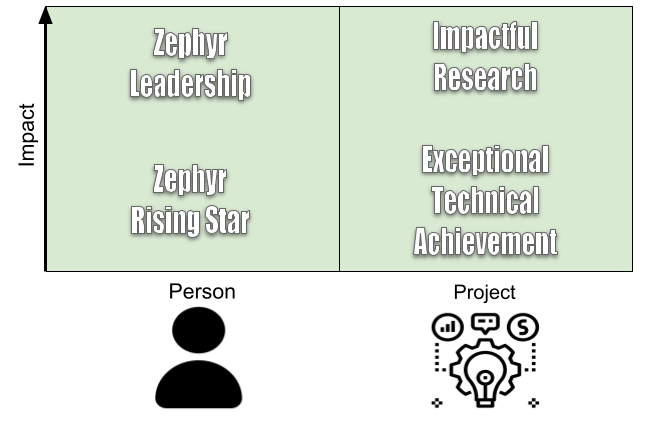
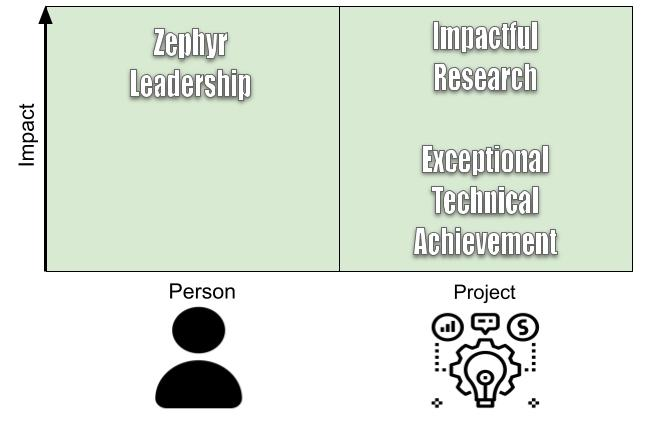
Update awards page to remove Rising Star award option for 2024

Changed region(s): [[0.1855, 0.3578, 0.4019, 0.5665], [0.6801, 0.4174, 0.8346, 0.5069]]

diff --git a/awards.md b/awards.md
@@ -4,21 +4,18 @@ category: Activities
 title: Zephyr Awards
 ---
 
-**Congratulations the 2023 Zephyr Award Winners!**
+**Announcing the 2024 Zephyr Awards Call for Nominations!**
 
-To clarify some past confusion regarding the different Zephyr Awards, in 2023, the Zephyr Award Committee has restructured and redefined
-the Award definitions and descriptions.
-
-There will be two categories of awards, Person and Project. Within each category, there are two options depending on level of impact.
+Starting this year, there will be three award categories, with the Rising Star Award being dropped.
 
 <p style="text-align:center; font-size:9px">
-<img src="/img/zephyr-awards-diagram.png" alt="A rectangle in which the horizonal axis split into two parts labelled Person and Project. The vertical axis is labeled Impact. Four types of awards are depicted in the rectangle as text: The lower impact Person award is Zephyr Rising Star. The higher impact Person award is Zephyr Leadership. The lower impact Project award is Exceptional Technical Achievement. The higher impact Project award is Impactful Research.">
+<img src="/img/zephyr-awards-diagram.png" alt="A rectangle in which the horizonal axis split into two parts labelled Person and Project. The vertical axis is labeled Impact. Three types of awards are depicted in the rectangle as text: The Person award is Zephyr Leadership. The lower impact Project award is Exceptional Technical Achievement. The higher impact Project award is Impactful Research.">
 <br />
 Person graphic by Mello from NounProject.com<br />
 Project graphic by Nithinan Tatah from NounProject.com
 </p>
 
-More information about the four awards can be found on the [2023 Zephyr Awards nomination form](https://forms.gle/SiBMUwWLeSPYvmxWA).
+More information about the three awards can be found on the [2024 Zephyr Awards nomination form](https://forms.gle/SiBMUwWLeSPYvmxWA).
 
 <hr />
 
@@ -27,12 +24,6 @@ More information about the four awards can be found on the [2023 Zephyr Awards n
 The Zephyr Leadership Award is given to an individual with demonstrated history of experience in the field who embodies the Zephyr Principles, and who embraces the Zephyr mission of advancing rigorous transportation and land use decision-making for the public good by advocating for and supporting improved travel analysis and facilitating its implementation.
 
 **[Congratuations to the 2023 recipient, Dr. Greg Erhardt!](/leadership-award)**
-
-## [Zephyr Rising Star Award](/rising-star-award)
-
-The Zephyr Rising Star Award is given to an individual early in their career who embodies the Zephyr Principles, and embraces the Zephyr mission of advancing rigorous transportation and land use decision-making for the public good by advocating for and supporting improved travel analysis. 
-
-**[Congratuations to the 2023 recipient, Dr. Tierra Bills!](/rising-star-award)**
 
 ## [Impactful Research Award](/impactful-research-award)
 
@@ -45,3 +36,10 @@ The Impactful Research Award is given in recognition of a project that has a pro
 The Exceptional Technical Achievement Award is given in recognition of a project that has a potential for a positive impact on the transportation and/or land use decision-making field.
 
 **[Congratuations to the 2023 recipient, Travel Model Improvement Program Exploratory Modeling and Analysis Tool (TMIP-EMAT)!](/technical-achievement-award)**
+
+
+## [Zephyr Rising Star Award - Discontinued as of 2024](/rising-star-award)
+
+The Zephyr Rising Star Award is given to an individual early in their career who embodies the Zephyr Principles, and embraces the Zephyr mission of advancing rigorous transportation and land use decision-making for the public good by advocating for and supporting improved travel analysis. 
+
+**[Congratuations to the 2023 recipient, Dr. Tierra Bills!](/rising-star-award)**
